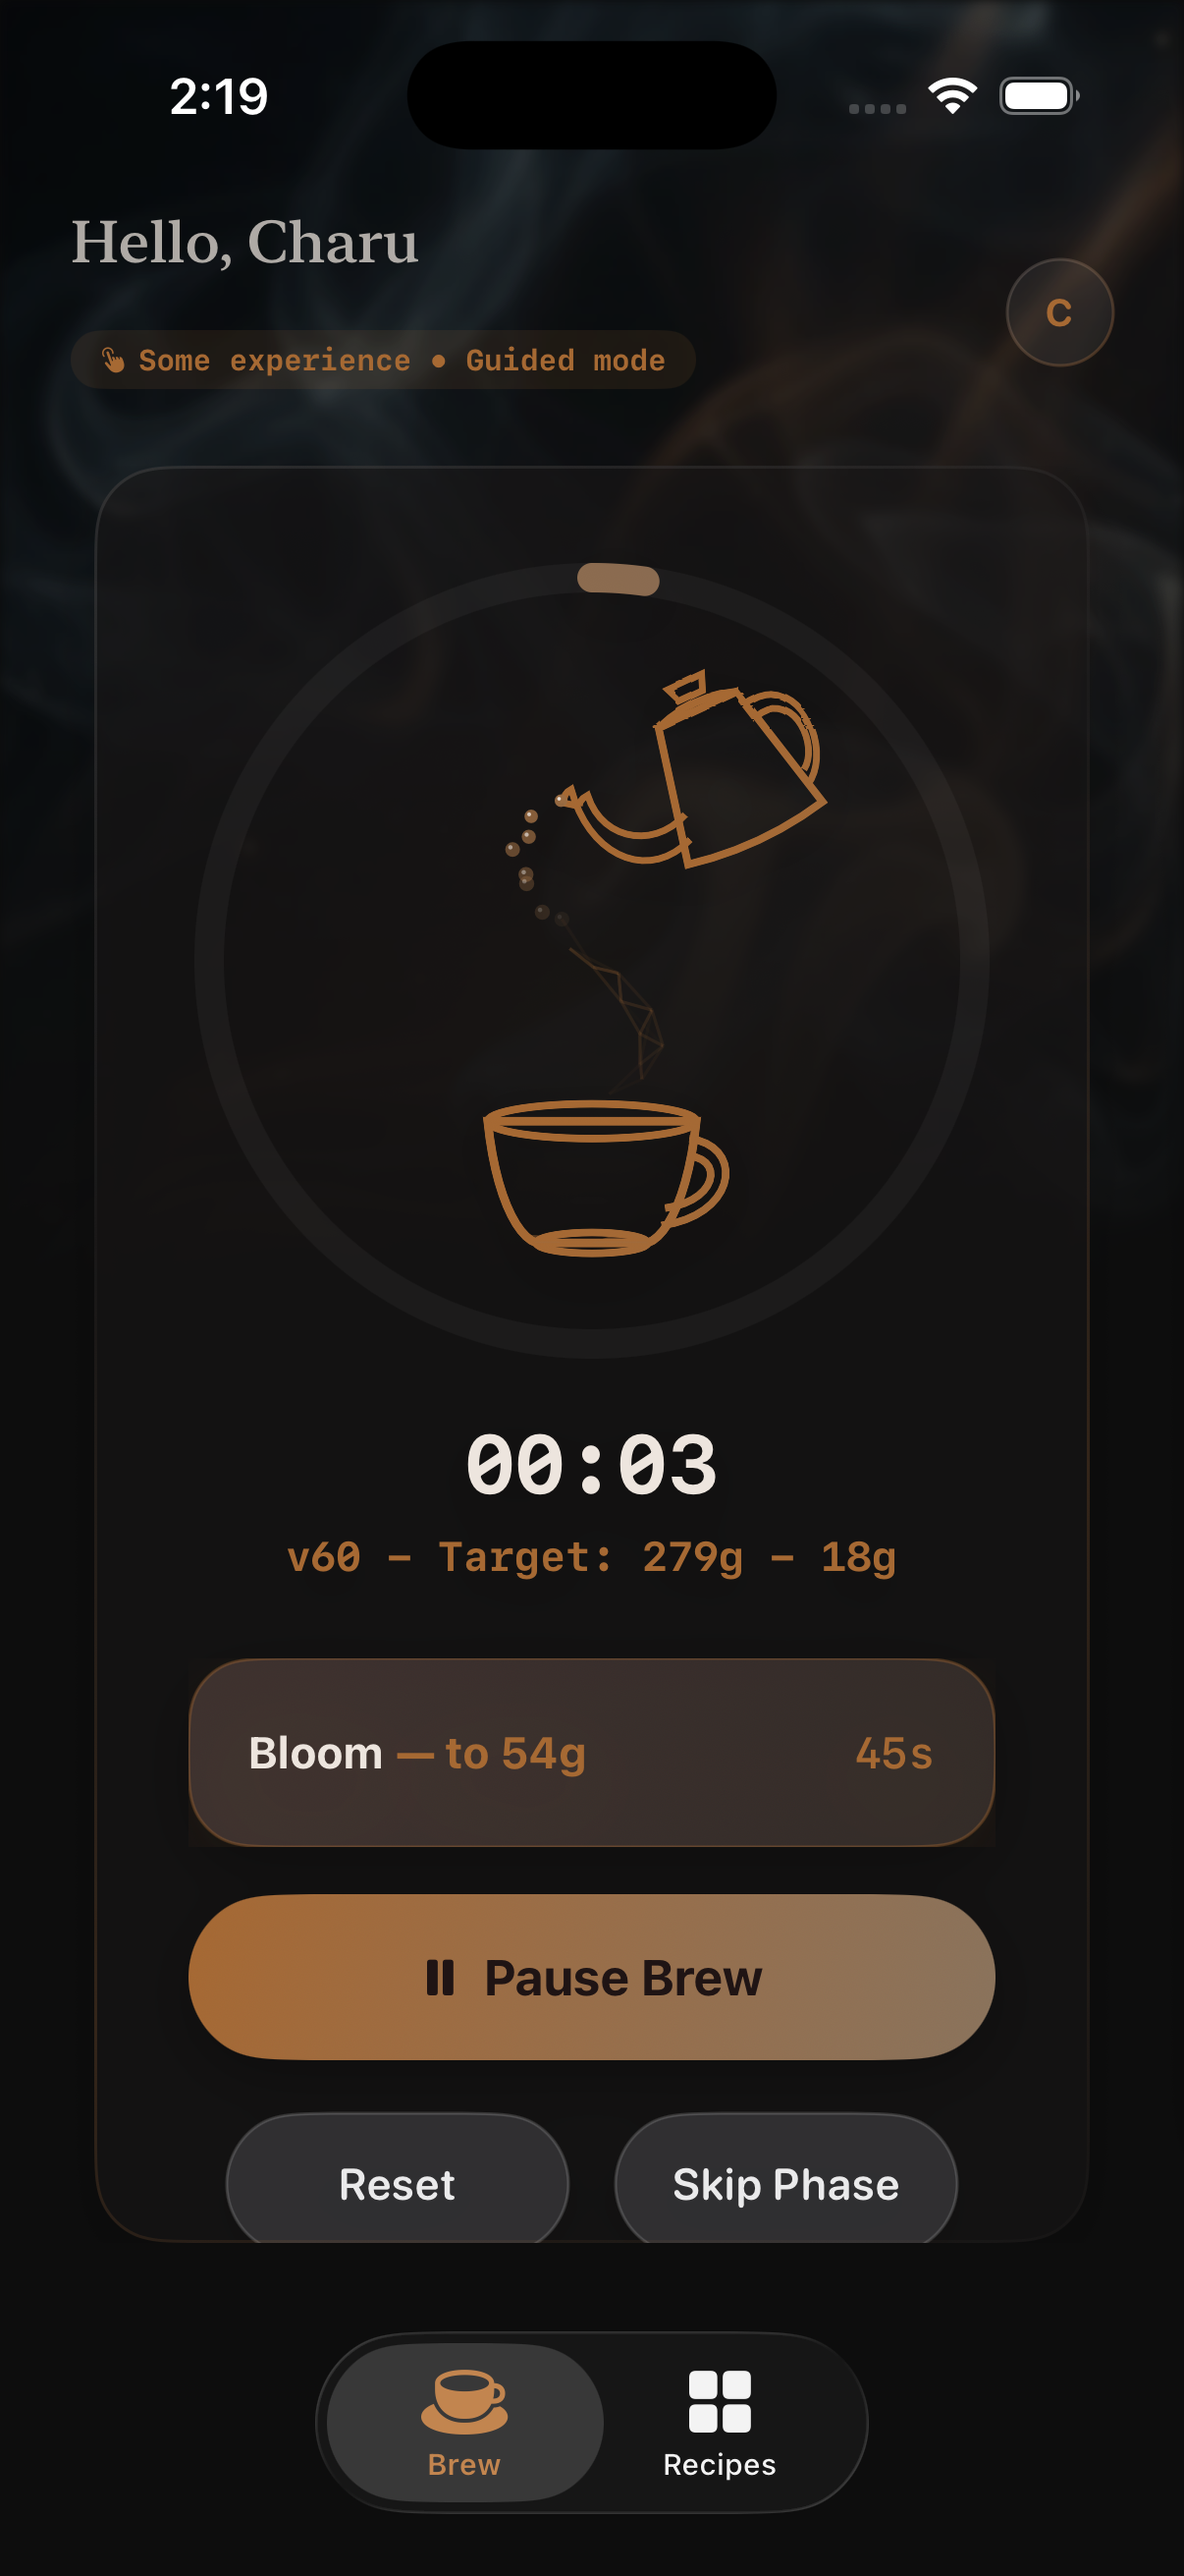
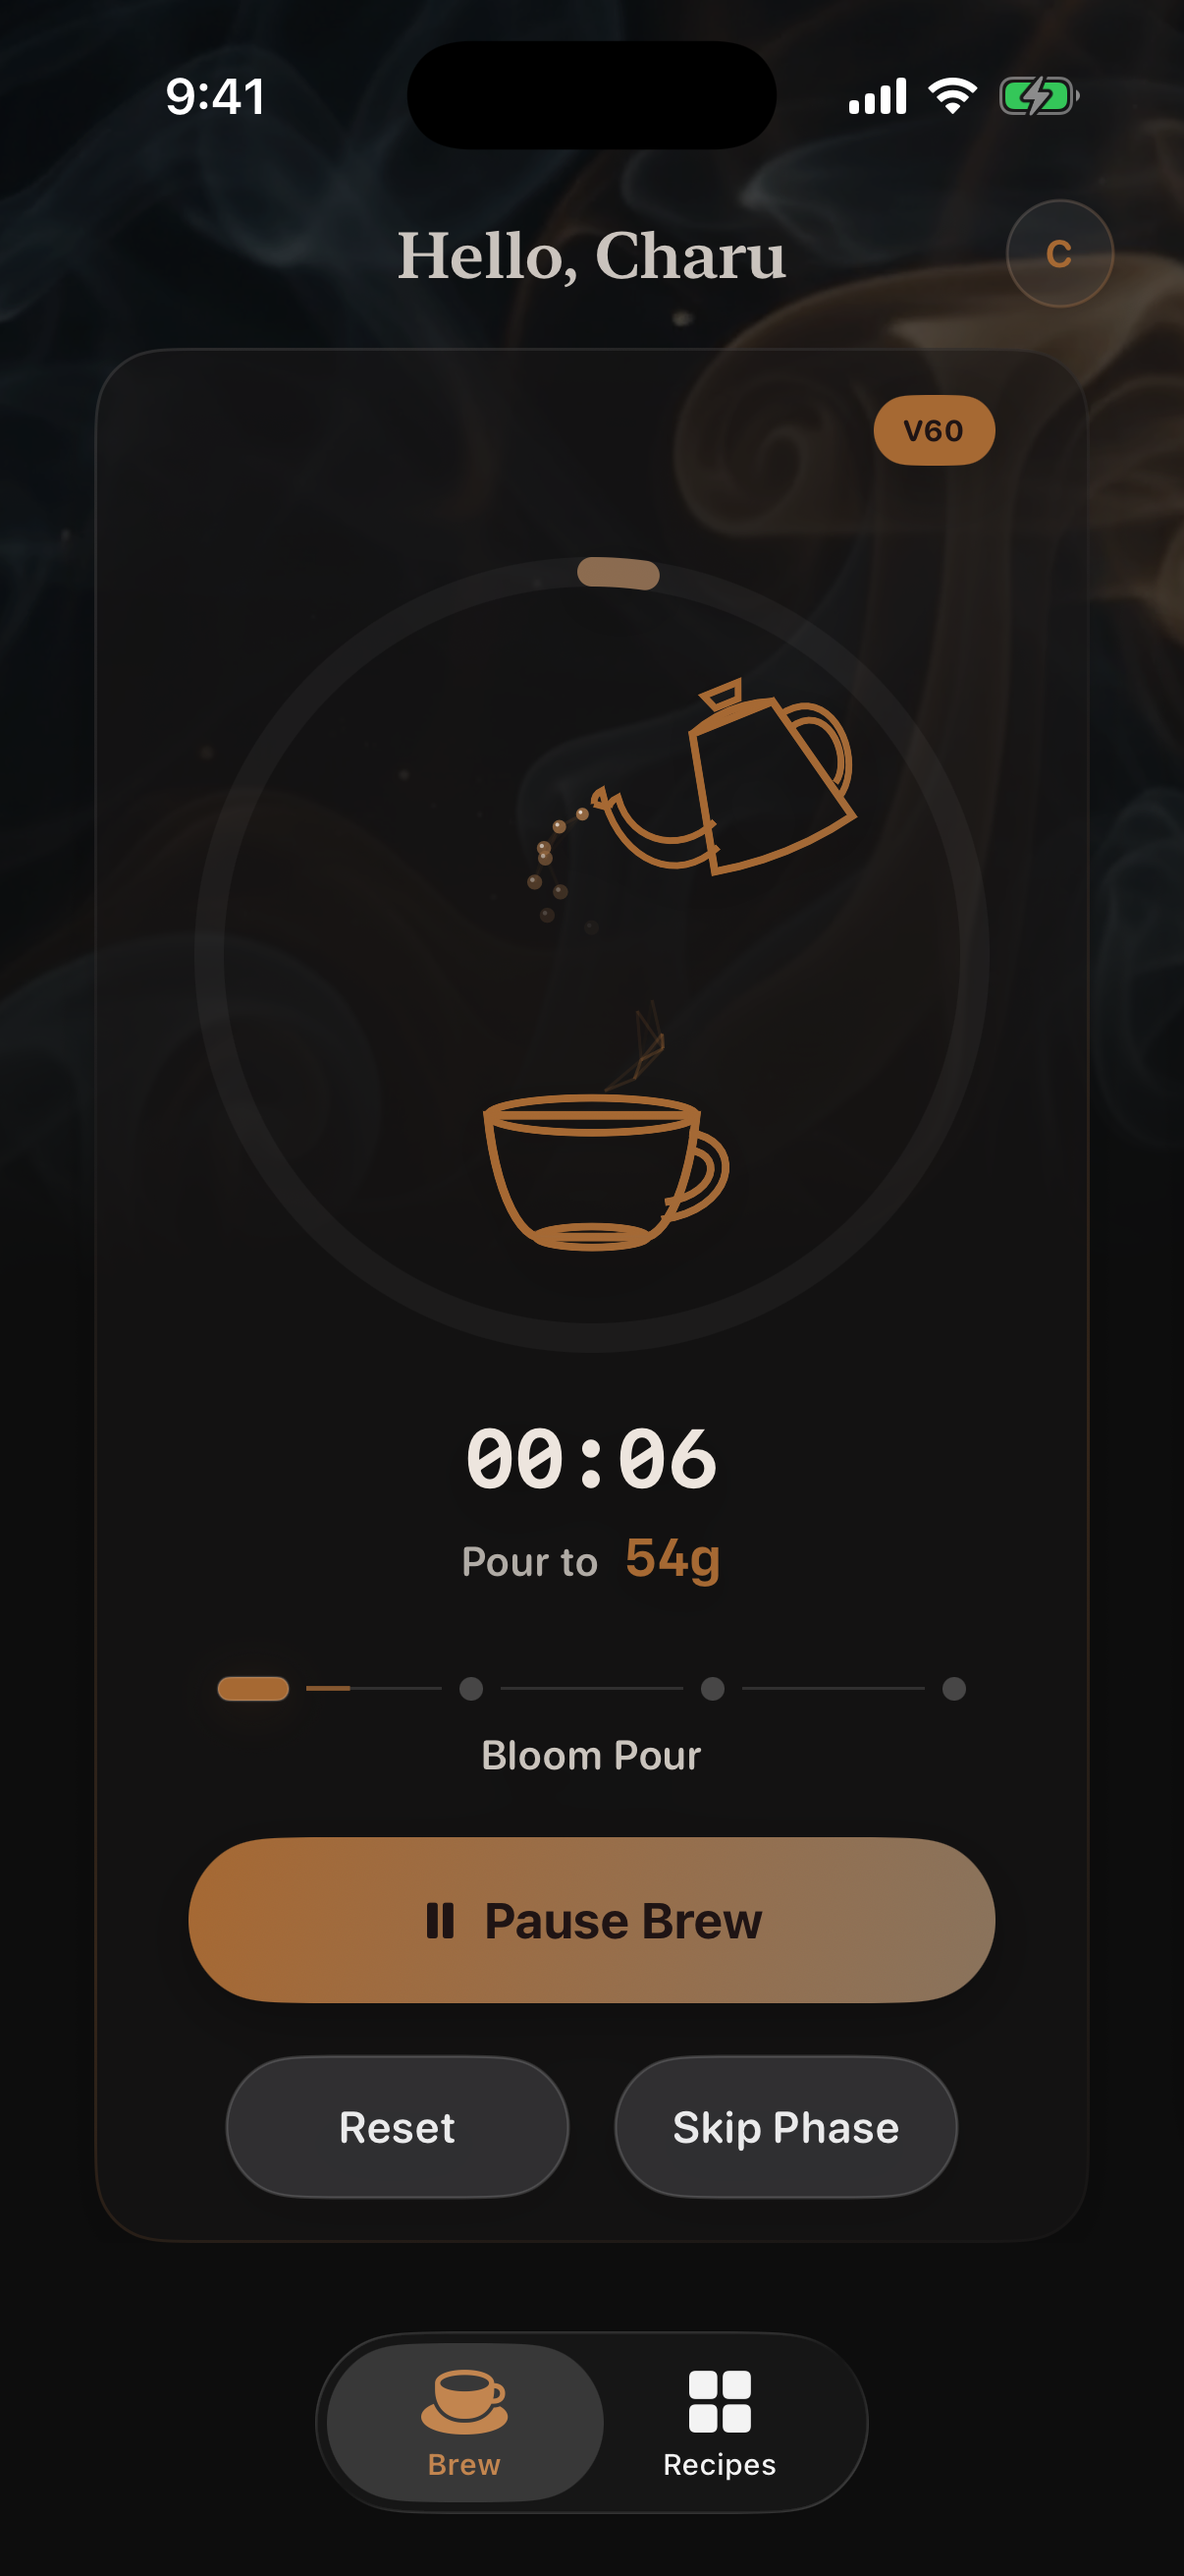
Update README and screenshots

diff --git a/brew_sixty/Support/ReadmeCaptureConfiguration.swift b/brew_sixty/Support/ReadmeCaptureConfiguration.swift
@@ -57,7 +57,7 @@ enum ReadmeCaptureConfiguration {
         let defaults = UserDefaults.standard
         defaults.set(true, forKey: ProfilePreferences.Keys.hasCompletedProfile)
         defaults.set("Charu", forKey: ProfilePreferences.Keys.name)
-        defaults.set(ProfileExperienceLevel.someExperience.rawValue, forKey: ProfilePreferences.Keys.experienceLevel)
+        defaults.set(readmeExperienceLevel.rawValue, forKey: ProfilePreferences.Keys.experienceLevel)
         defaults.set(
             ProfilePreferences.encode(methods: [.v60, .chemex, .frenchPress, .aeropress]),
             forKey: ProfilePreferences.Keys.methodsUsed
@@ -74,17 +74,26 @@ enum ReadmeCaptureConfiguration {
         try context.save()
     }
 
+    private static var readmeExperienceLevel: ProfileExperienceLevel {
+        switch scenario {
+        case .editor:
+            return .justStarting
+        case .brew, .recipes, .none:
+            return .someExperience
+        }
+    }
+
     private static var sampleTemplates: [BrewTemplate] {
         [
             BrewTemplate(
                 name: "Morning Ritual",
                 method: .v60,
                 beanWeight: 18.0,
-                ratio: 15.5,
-                waterVolume: 279.0,
+                ratio: 16.0,
+                waterVolume: 288.0,
                 preInfusionActive: true,
                 preInfusionDuration: 45.0,
-                targetTemperature: 93.5,
+                targetTemperature: 93.0,
                 hapticFeedbackEnabled: true,
                 autoSyncEnabled: true,
                 steepDuration: 0.0,

diff --git a/brew_sixty/View/MethodsView.swift b/brew_sixty/View/MethodsView.swift
@@ -145,10 +145,8 @@ struct MethodsView: View {
 
         hasAppliedReadmeCaptureState = true
 
-        guard let template = templates.first else { return }
-
         DispatchQueue.main.async {
-            editorMode = .edit(template)
+            editorMode = .create
         }
     }
 

diff --git a/README.md b/README.md
@@ -1,33 +1,33 @@
 # Brew Sixty
 
-Brew Sixty is a premium-feeling coffee brewing companion for iPhone. It helps you build recipes, save presets, and run clean step-by-step brew timers for V60, Chemex, French Press, and Aeropress.
+Brew Sixty is a premium-feeling coffee brewing companion for iPhone. It helps you build recipes, save presets, and run calm step-by-step brew timers for V60, Chemex, French Press, and Aeropress.
 
-The app is built with **SwiftUI** and **SwiftData**, stores data locally on-device, and does not require a backend or paid service to run from source.
+The app is built with **SwiftUI** and **SwiftData**, stores data locally on-device, and runs fully offline with no backend or paid service required.
 
 ## Screenshots
 
 <table>
   <tr>
-    <td align="center"><strong>Active Brew</strong></td>
+    <td align="center"><strong>Live Brew Timer</strong></td>
     <td align="center"><strong>Recipes Library</strong></td>
-    <td align="center"><strong>Recipe Editor</strong></td>
+    <td align="center"><strong>Beginner Recipe Builder</strong></td>
   </tr>
   <tr>
-    <td><img src="docs/readme/brew-active.png" alt="Active brew timer screen" width="260"></td>
+    <td><img src="docs/readme/brew-active.png" alt="Live brew timer screen with phase guidance" width="260"></td>
     <td><img src="docs/readme/recipes-library.png" alt="Saved recipes library screen" width="260"></td>
-    <td><img src="docs/readme/recipe-editor.png" alt="Recipe editor screen" width="260"></td>
+    <td><img src="docs/readme/recipe-editor.png" alt="Beginner-friendly recipe builder screen" width="260"></td>
   </tr>
 </table>
 
 ## What the App Does
 
-- **Brew tab** for active brew sessions and live timers
-- **Recipes tab** for browsing saved recipes separately from recipe creation
+- **Live brew screen** with a 3-second start countdown, phase stepper, per-phase timer, and clean passive wait states
+- **Recipe builder** with beginner-friendly presets like **Cup Size** and **Taste Style**
+- **Experience-aware setup** with simpler language and live taste hints for newer brewers, plus technical labels for comfortable users
+- **Recipes library** for saving, editing, reusing, and instantly brewing presets
 - **One-off brewing** so you can start a brew immediately without saving it first
-- **Saved presets** for recipes you want to reuse
-- **Profile-based setup** with experience level, preferred methods, and guidance mode
-- **Guided and manual flows** for different levels of brewing confidence
-- **Premium visual styling** with animated background video and glassmorphic panels
+- **Profile setup** for your name, experience level, and preferred brew methods
+- **Premium visual styling** with animated video wallpaper and glassmorphic cards
 
 ## Supported Brew Methods
 
@@ -120,15 +120,15 @@ brew_sixty/
 
 ### Brew
 
-- shows live brew sessions
-- runs timer-driven phases such as bloom, steep, press, and drawdown
-- supports immediate one-off brews and saved recipes
+- runs live brew sessions with phase-by-phase timing
+- supports countdown, bloom, steep, press, and drawdown flows depending on method
+- shows clear current-step guidance without forcing recipe saving first
 
 ### Recipes
 
-- shows saved recipes as the primary view
-- lets you create, edit, brew, and delete presets
-- keeps browsing and recipe building separated for a cleaner mental model
+- shows saved recipes as the primary library view
+- opens a focused recipe composer for creating or editing brews
+- supports beginner presets, manual fine-tuning, and direct brew start from the editor
 
 ## Data and Privacy
 
